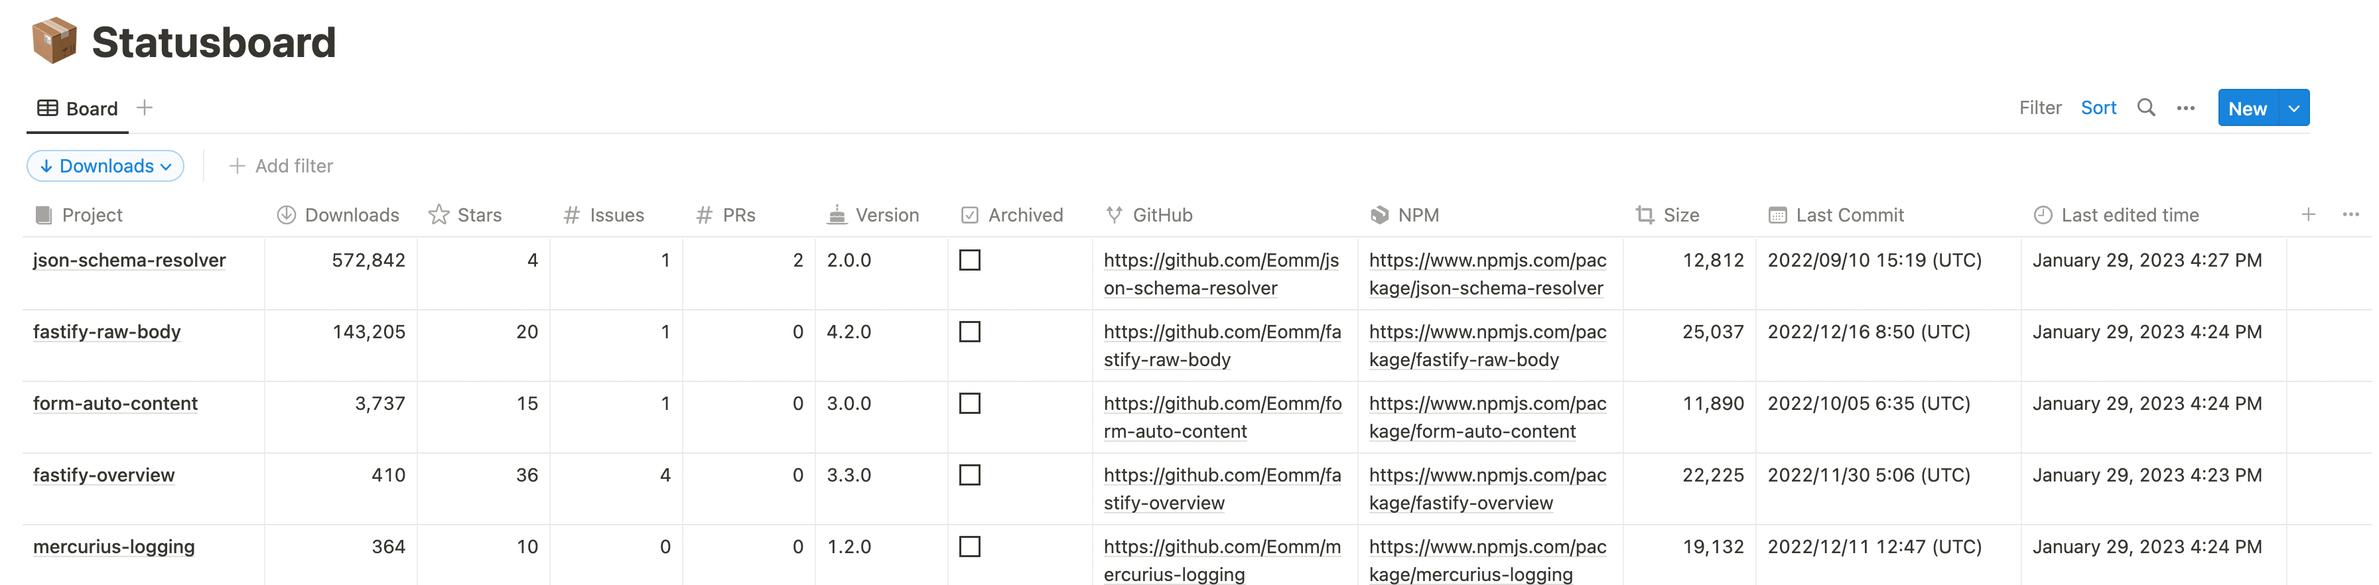
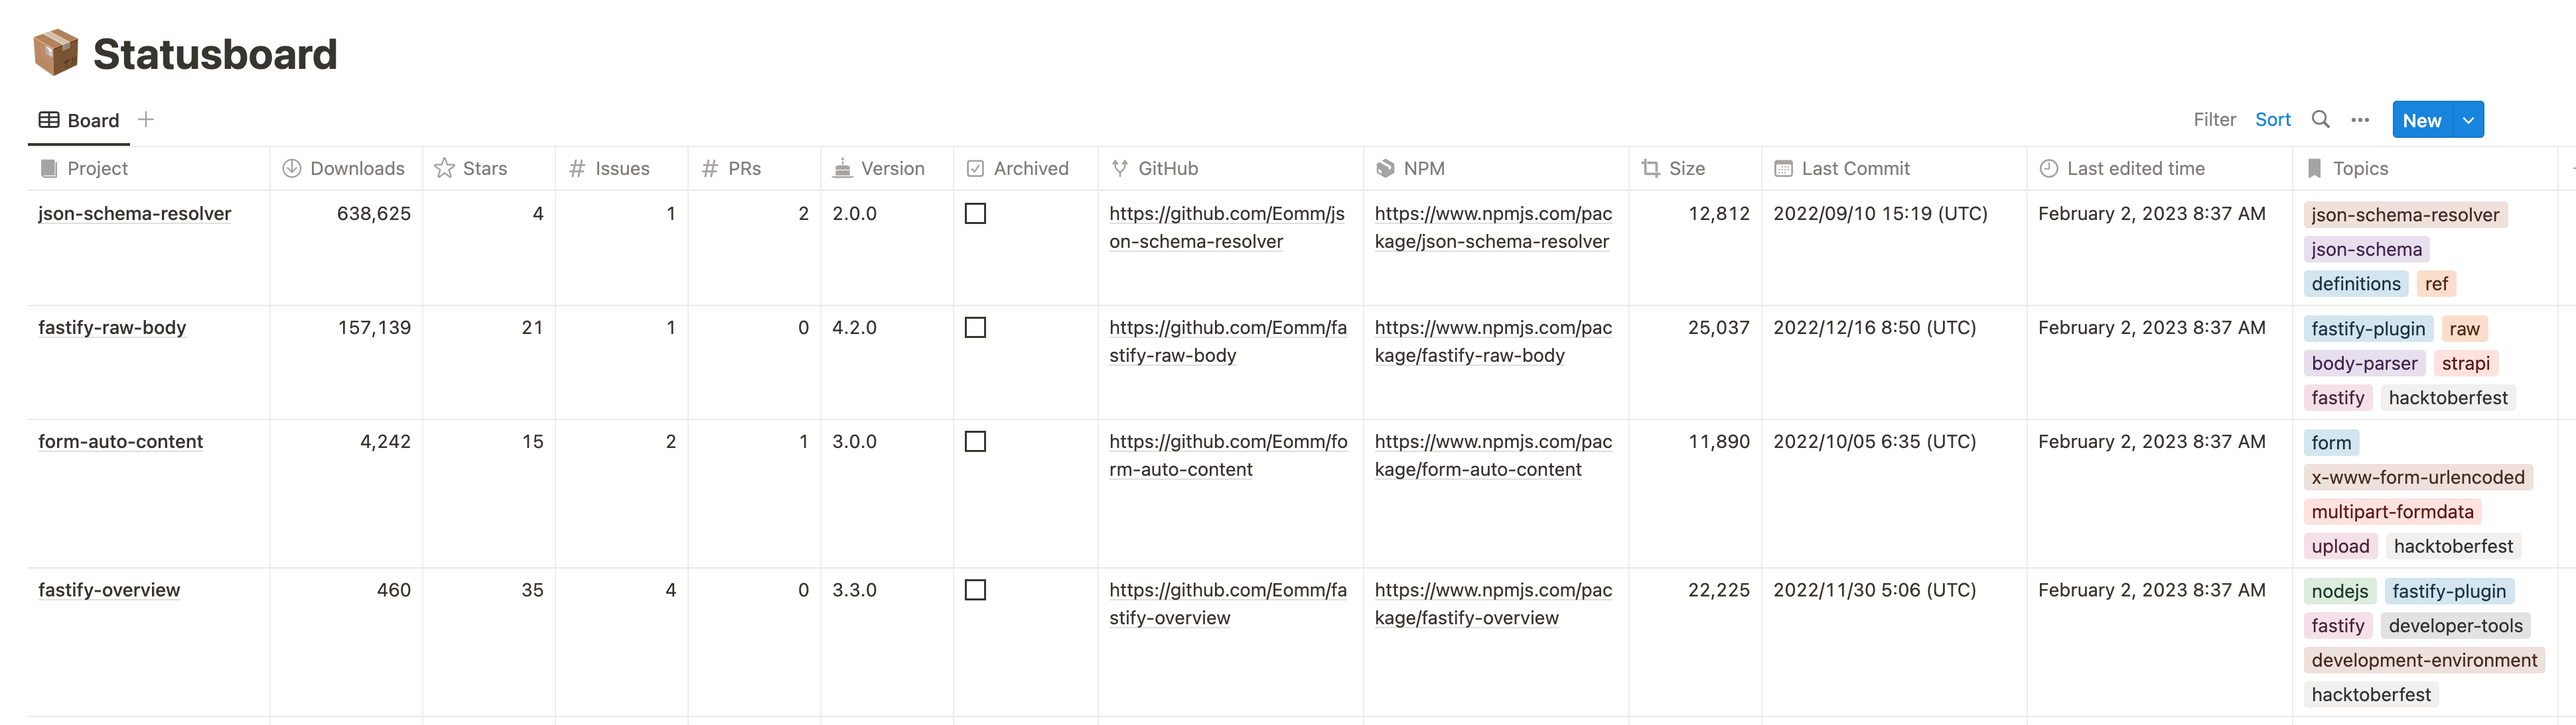
feat: sync gh topics (#12)

diff --git a/libs/notion-wrapper.js b/libs/notion-wrapper.js
@@ -108,6 +108,7 @@ function toNotionProperties (input) {
   ifThenSet(input, 'packageSizeBytes', out, 'number', 'Size')
   ifThenSet(input, 'lastCommitAt', out, 'date', 'Last Commit')
   ifThenSet(input, 'version', out, 'rich_text', 'Version')
+  ifThenSet(input, 'topics', out, 'multi_select', 'Topics')
 
   return out
 }
@@ -124,6 +125,10 @@ function ifThenSet (input, key, output, type, keyOut, defaultValue = null) {
       [type]: [
         { type: 'text', text: { content: input[key] ?? defaultValue } }
       ]
+    }
+  } else if (type === 'multi_select') {
+    output[keyOut] = {
+      [type]: input[key].map(x => ({ name: x })) ?? []
     }
   } else {
     output[keyOut] = { [type]: input[key] ?? defaultValue }
@@ -142,6 +147,7 @@ function toHumanProperties (properties) {
     archived: properties.Archived?.checkbox,
     packageUrl: properties.NPM?.url || undefined,
     packageSizeBytes: properties.Size?.number || undefined,
-    downloads: properties.Downloads?.number || undefined
+    downloads: properties.Downloads?.number || undefined,
+    topics: properties.Topics?.multi_select?.map(x => x.name) || undefined
   }
 }

diff --git a/action.js b/action.js
@@ -141,6 +141,8 @@ function convertToAction ({ github, npm, notion }) {
     stars: github.stargazerCount,
     repositoryUrl: github.url,
 
+    topics: github.repositoryTopics?.nodes?.map(node => node.topic.name),
+
     prs: github.pullRequests.totalCount,
     issues: github.issues.totalCount,
 

diff --git a/README.md b/README.md
@@ -14,6 +14,7 @@ The collected data are:
 - GitHub repository name
 - NPM downloads per month
 - GitHub stars
+- GitHub topics
 - Number of open issues, optionally filtered by labels
 - Number of open pull requests
 - Latesr version published on NPM
